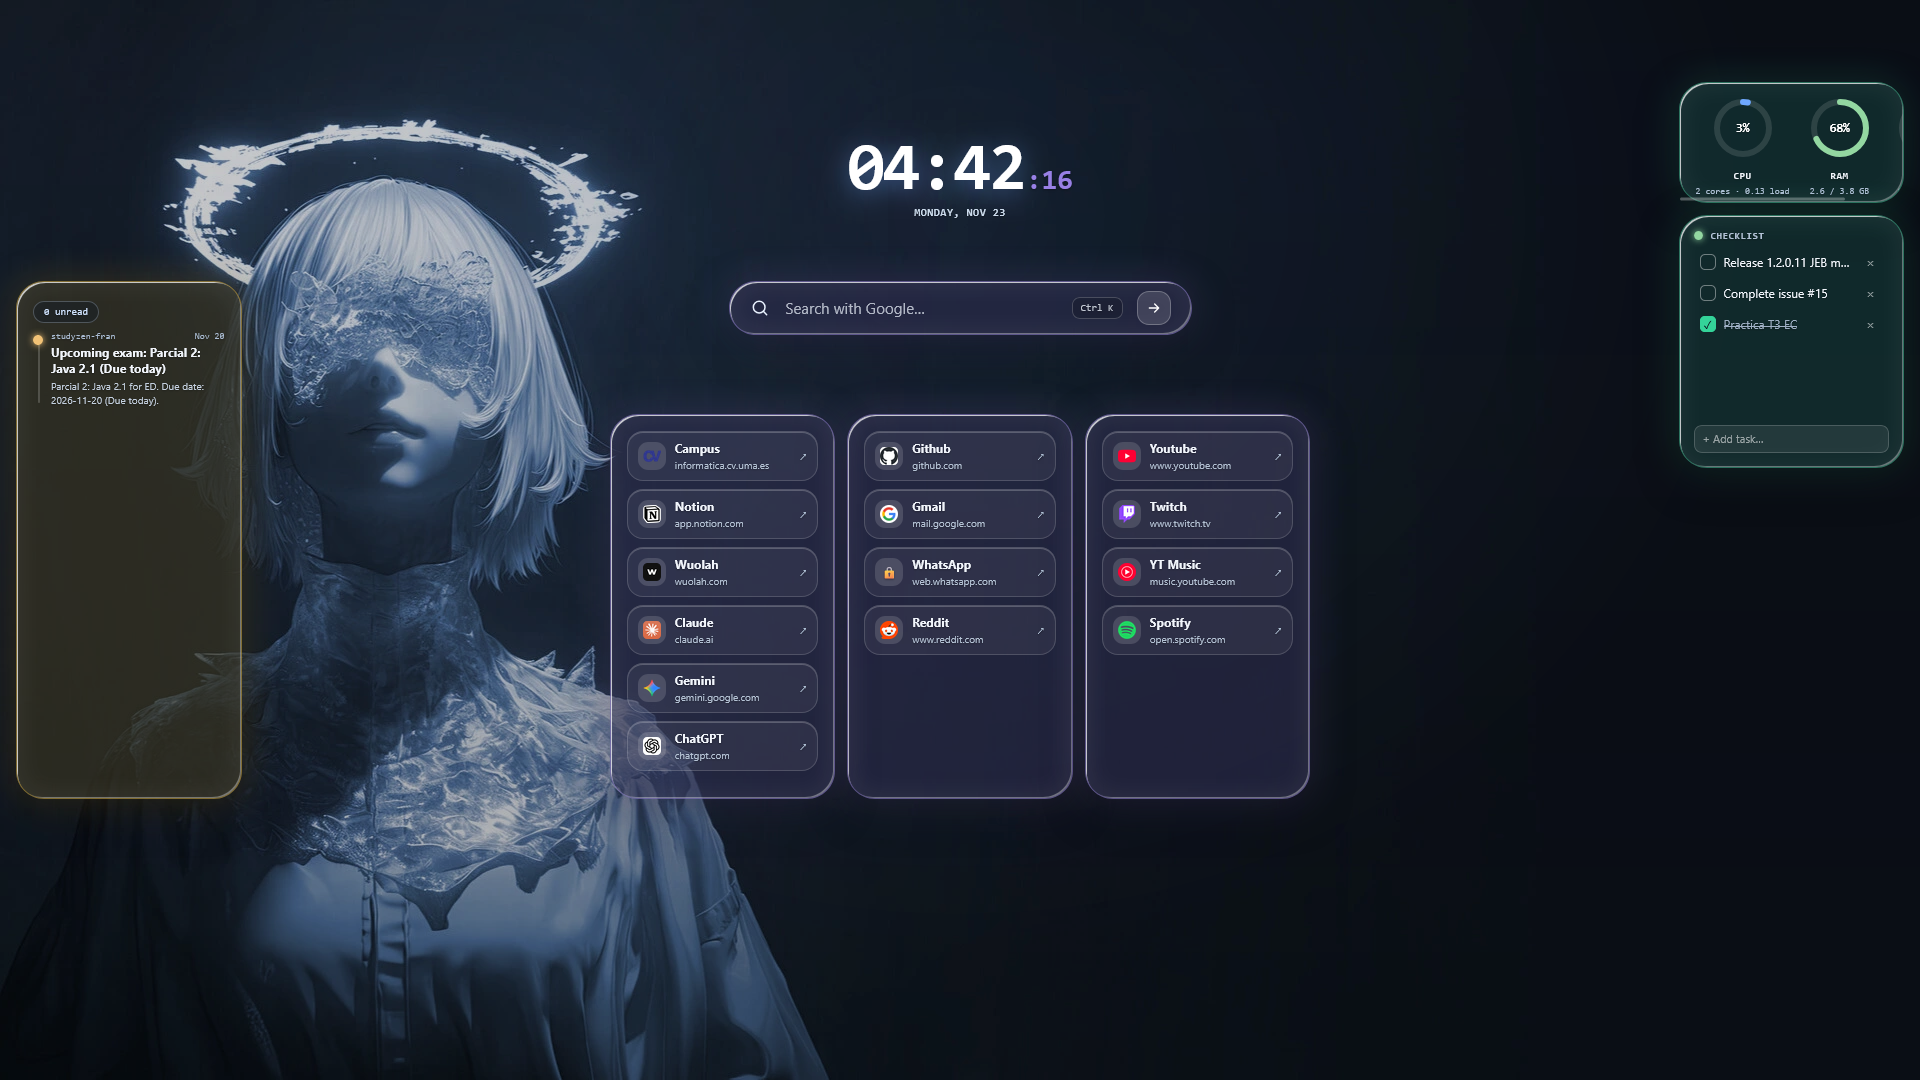
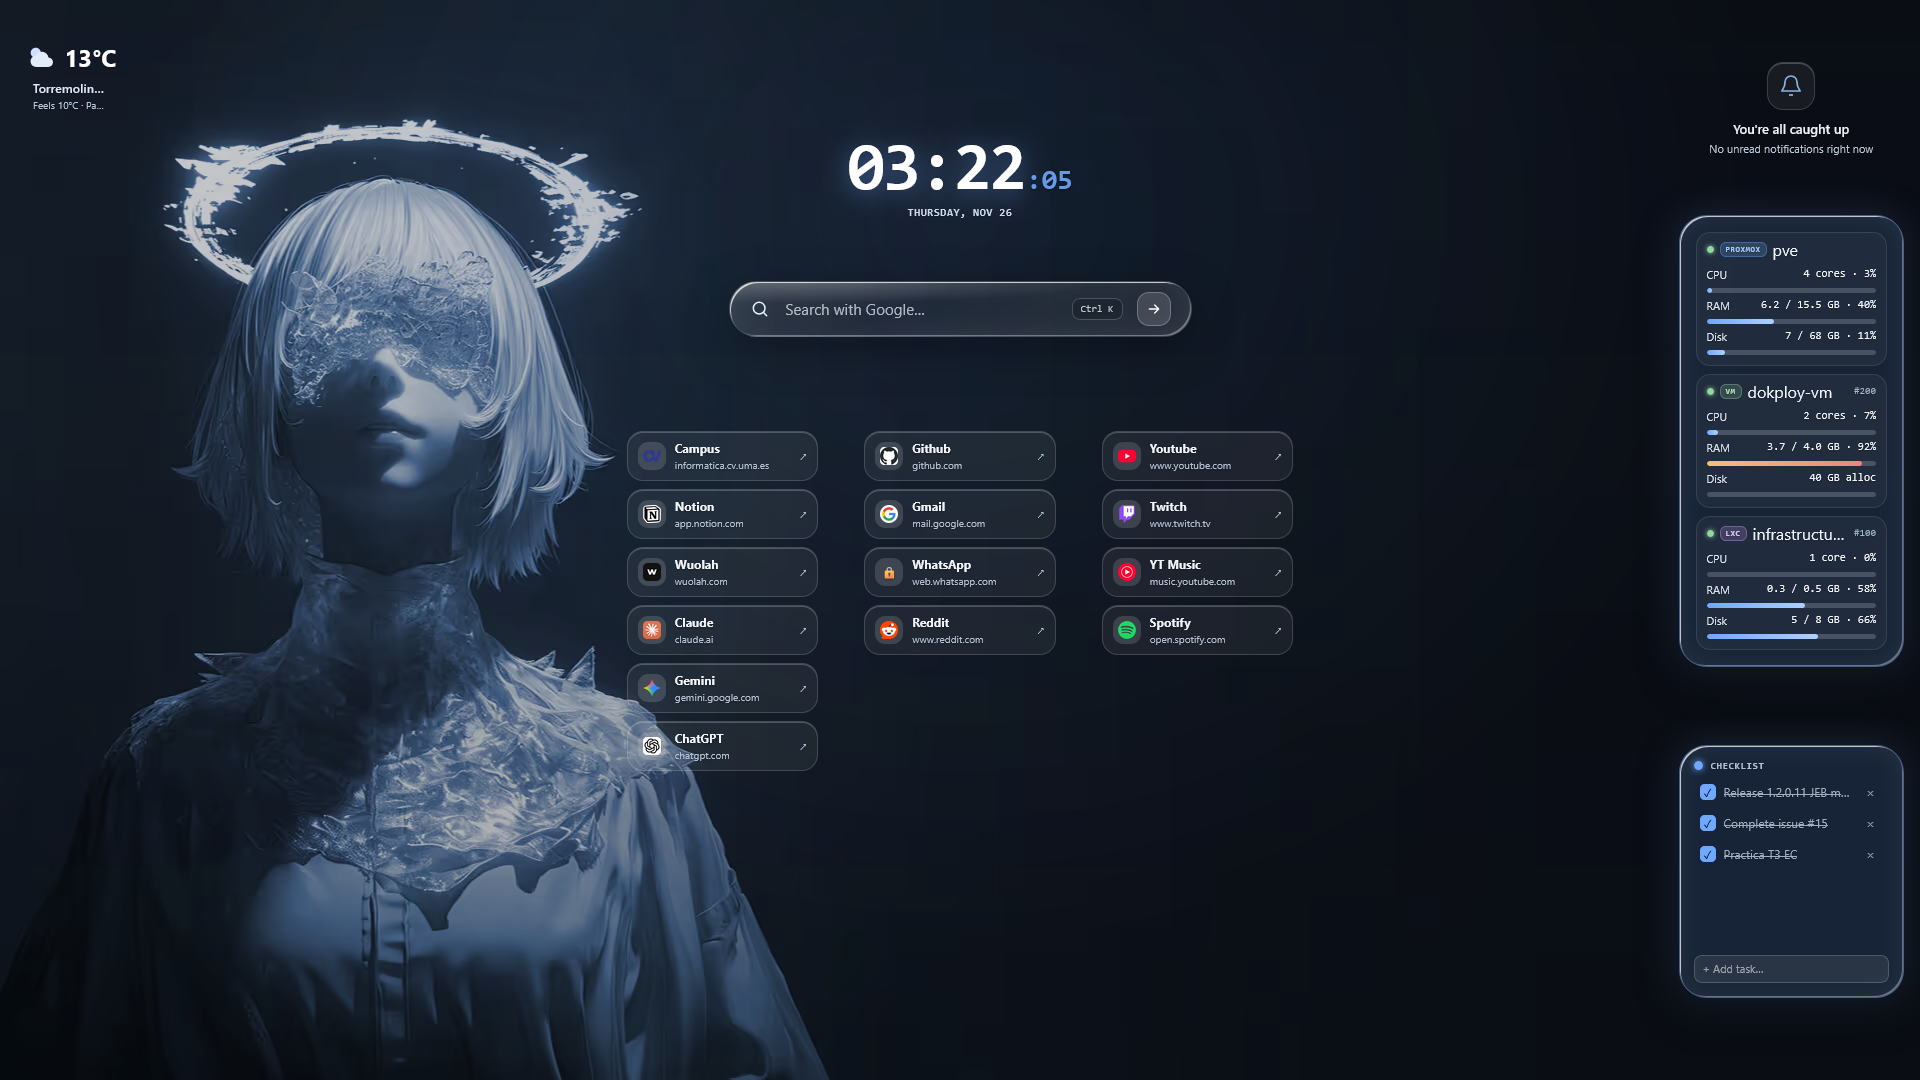
feat: added .zip for firefox extension

diff --git a/apps/web/vite.config.ts b/apps/web/vite.config.ts
@@ -41,54 +41,105 @@ function precompressAssets(): Plugin {
   }
 }
 
-// https://vite.dev/config/
-export default defineConfig({
-  plugins: [precompressAssets()],
-  resolve: {
-    alias: [
-      { find: /^react$/, replacement: 'preact/compat' },
-      { find: /^react\/jsx-runtime$/, replacement: 'preact/compat/jsx-runtime' },
-      { find: /^react\/jsx-dev-runtime$/, replacement: 'preact/compat/jsx-dev-runtime' },
-      { find: /^react-dom$/, replacement: 'preact/compat' },
-      { find: /^react-dom\/client$/, replacement: 'preact/compat/client' },
-      { find: /^react-dom\/test-utils$/, replacement: 'preact/compat/test-utils' },
-    ],
-  },
-  build: {
-    target: 'esnext',
-    cssMinify: 'lightningcss',
-    modulePreload: {
-      polyfill: false,
-      resolveDependencies(_filename, deps) {
-        return deps.filter(dep => !dep.includes('EditOverlays') && !dep.includes('LoginScreen'))
-      },
+function writeExtensionManifest(origin: string, version: string): Plugin {
+  let outDir = 'dist-extension'
+  return {
+    name: 'homedash-extension-manifest',
+    apply: 'build',
+    configResolved(config) {
+      outDir = join(config.root, config.build.outDir)
     },
-    rollupOptions: {
-      output: {
-        manualChunks(id) {
-          if (id.includes('node_modules/preact')) {
-            return 'vendor'
-          }
+    async closeBundle() {
+      const manifest = {
+        manifest_version: 2,
+        name: 'HomeDash New Tab',
+        version,
+        description: 'HomeDash homelab startpage as your Firefox New Tab.',
+        icons: {
+          48: 'favicon.svg',
+          96: 'favicon.svg',
+        },
+        chrome_url_overrides: {
+          newtab: 'index.html',
+        },
+        permissions: [`${origin}/*`],
+        browser_specific_settings: {
+          gecko: {
+            id: 'homedash-newtab@frandm.dev',
+            strict_min_version: '140.0',
+            data_collection_permissions: {
+              required: ['none'],
+            },
+          },
+        },
+      }
+      await writeFile(join(outDir, 'manifest.json'), `${JSON.stringify(manifest, null, 2)}\n`)
+    },
+  }
+}
+
+// https://vite.dev/config/
+export default defineConfig(({ mode }) => {
+  const isExtension = mode === 'extension'
+  const extensionApiBaseUrl = (process.env.VITE_API_BASE_URL || 'https://startpage.frandm.dev/api').replace(/\/+$/, '')
+  const extensionOrigin = isExtension ? new URL(extensionApiBaseUrl).origin : ''
+  const extensionVersion = process.env.EXTENSION_VERSION || '1.0.0'
+
+  return {
+    base: isExtension ? './' : '/',
+    plugins: isExtension
+      ? [writeExtensionManifest(extensionOrigin, extensionVersion)]
+      : [precompressAssets()],
+    define: isExtension
+      ? { 'import.meta.env.VITE_API_BASE_URL': JSON.stringify(extensionApiBaseUrl) }
+      : undefined,
+    resolve: {
+      alias: [
+        { find: /^react$/, replacement: 'preact/compat' },
+        { find: /^react\/jsx-runtime$/, replacement: 'preact/compat/jsx-runtime' },
+        { find: /^react\/jsx-dev-runtime$/, replacement: 'preact/compat/jsx-dev-runtime' },
+        { find: /^react-dom$/, replacement: 'preact/compat' },
+        { find: /^react-dom\/client$/, replacement: 'preact/compat/client' },
+        { find: /^react-dom\/test-utils$/, replacement: 'preact/compat/test-utils' },
+      ],
+    },
+    build: {
+      outDir: isExtension ? 'dist-extension' : 'dist',
+      target: 'esnext',
+      cssMinify: 'lightningcss',
+      modulePreload: {
+        polyfill: false,
+        resolveDependencies(_filename, deps) {
+          return deps.filter(dep => !dep.includes('EditOverlays') && !dep.includes('LoginScreen'))
+        },
+      },
+      rollupOptions: {
+        output: {
+          manualChunks(id) {
+            if (id.includes('node_modules/preact')) {
+              return 'vendor'
+            }
+          },
         },
       },
     },
-  },
-  server: {
-    port: 5173,
-    proxy: {
-      '/api': {
-        target: process.env.VITE_API_PROXY_TARGET || 'http://127.0.0.1:3000',
-        changeOrigin: true,
+    server: {
+      port: 5173,
+      proxy: {
+        '/api': {
+          target: process.env.VITE_API_PROXY_TARGET || 'http://127.0.0.1:3000',
+          changeOrigin: true,
+        },
       },
     },
-  },
-  preview: {
-    port: 4173,
-    proxy: {
-      '/api': {
-        target: process.env.VITE_API_PROXY_TARGET || 'http://127.0.0.1:3000',
-        changeOrigin: true,
+    preview: {
+      port: 4173,
+      proxy: {
+        '/api': {
+          target: process.env.VITE_API_PROXY_TARGET || 'http://127.0.0.1:3000',
+          changeOrigin: true,
+        },
       },
     },
-  },
+  }
 })
